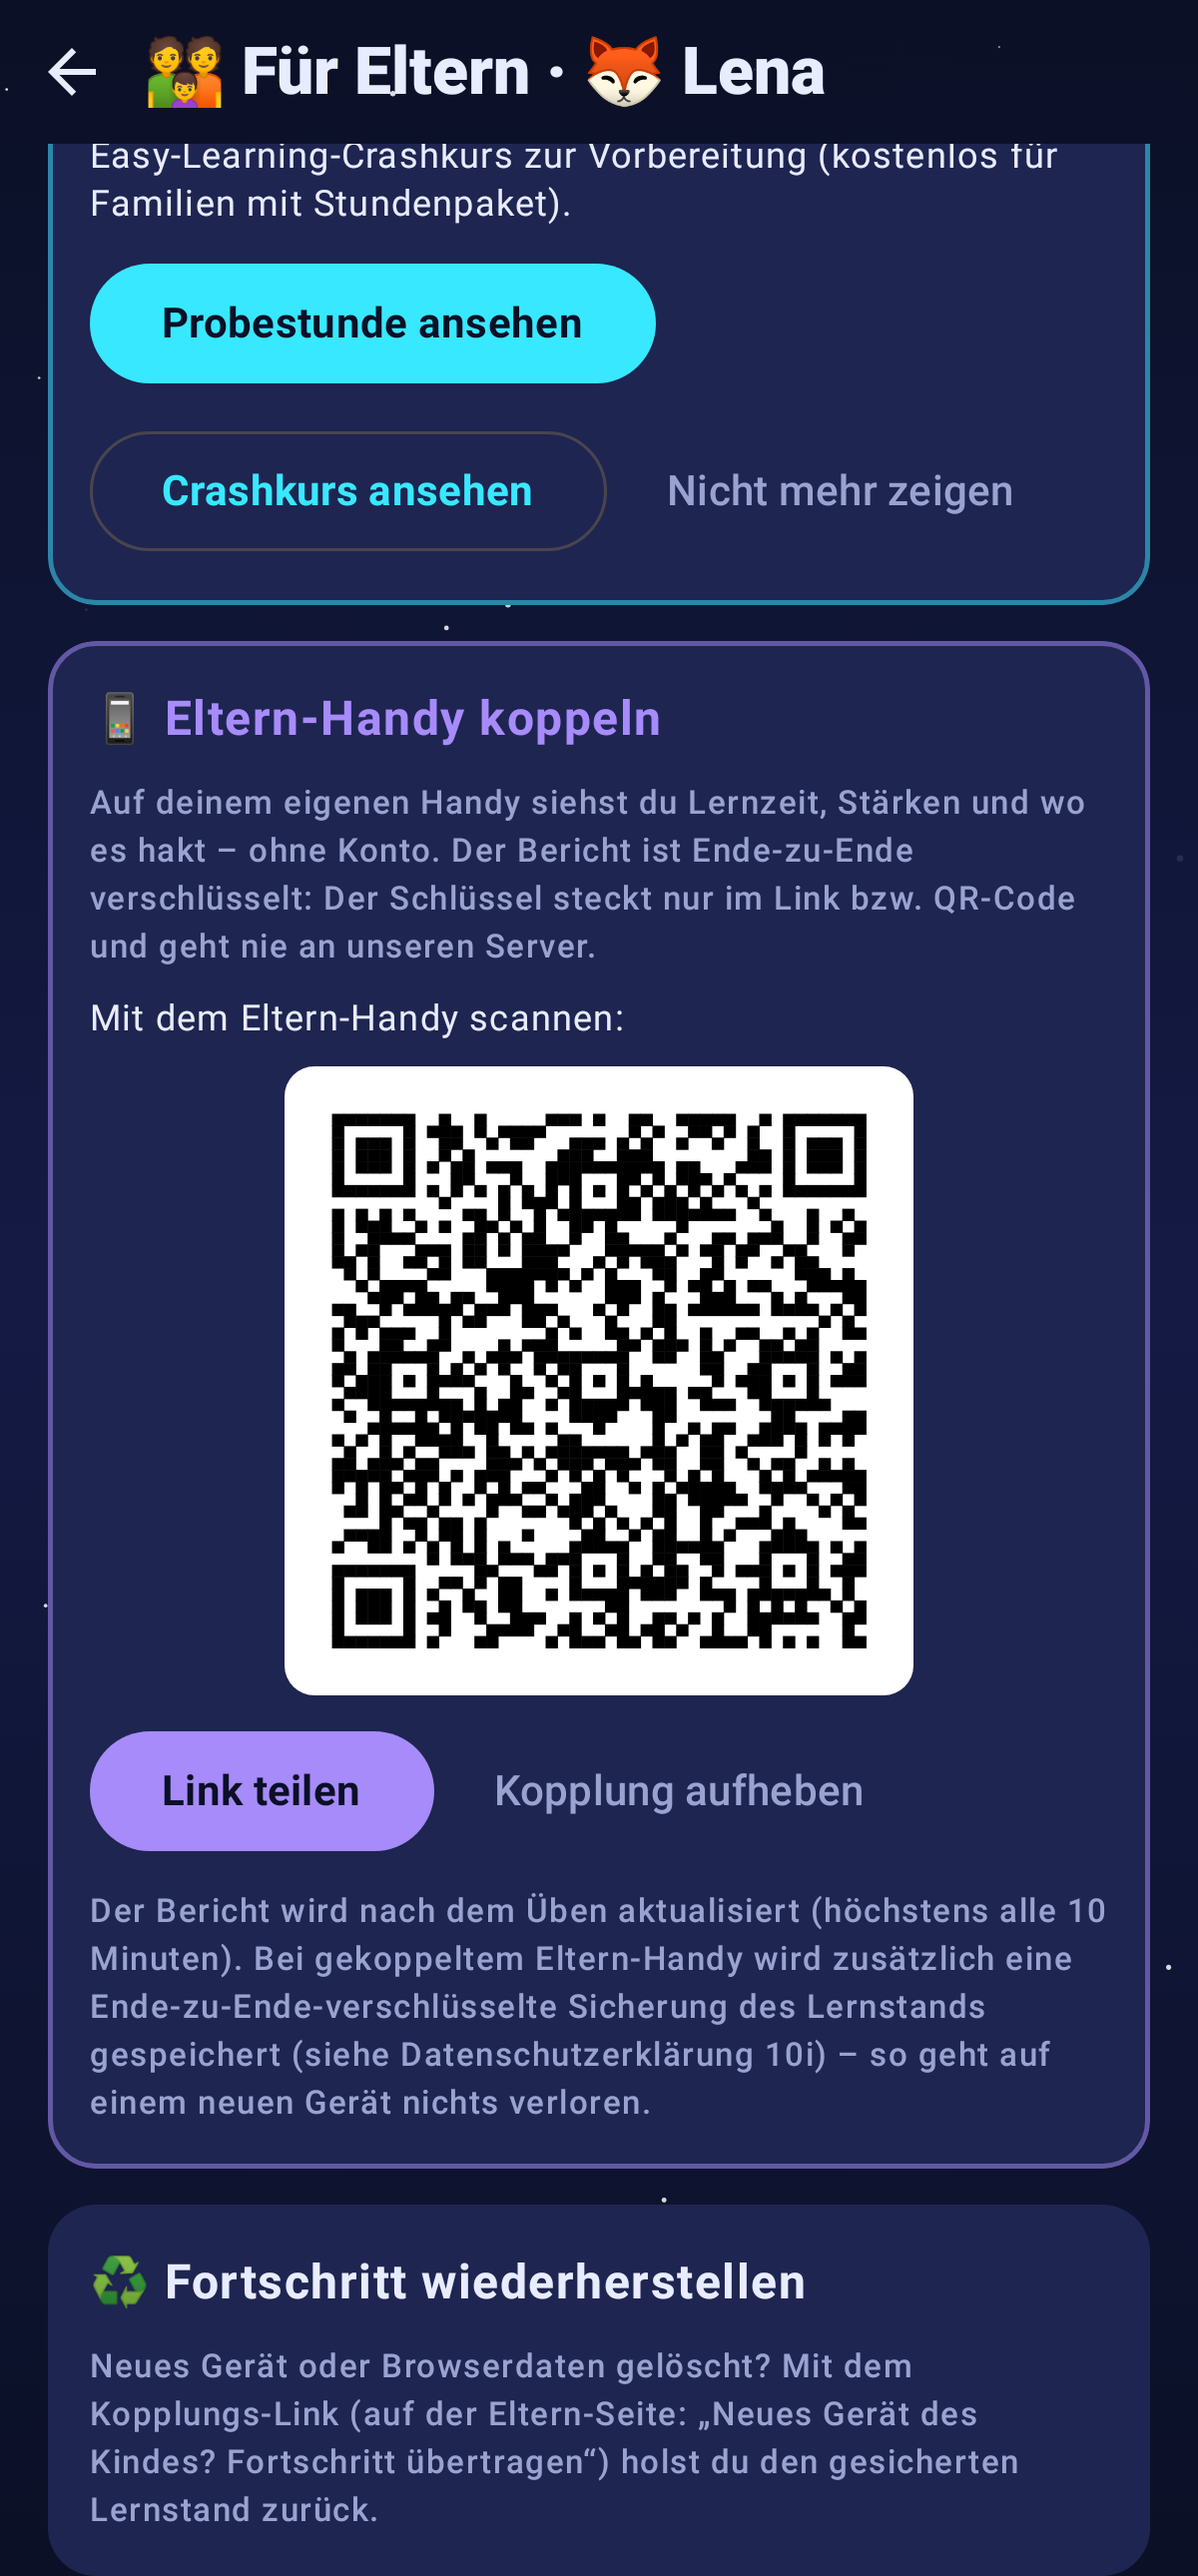
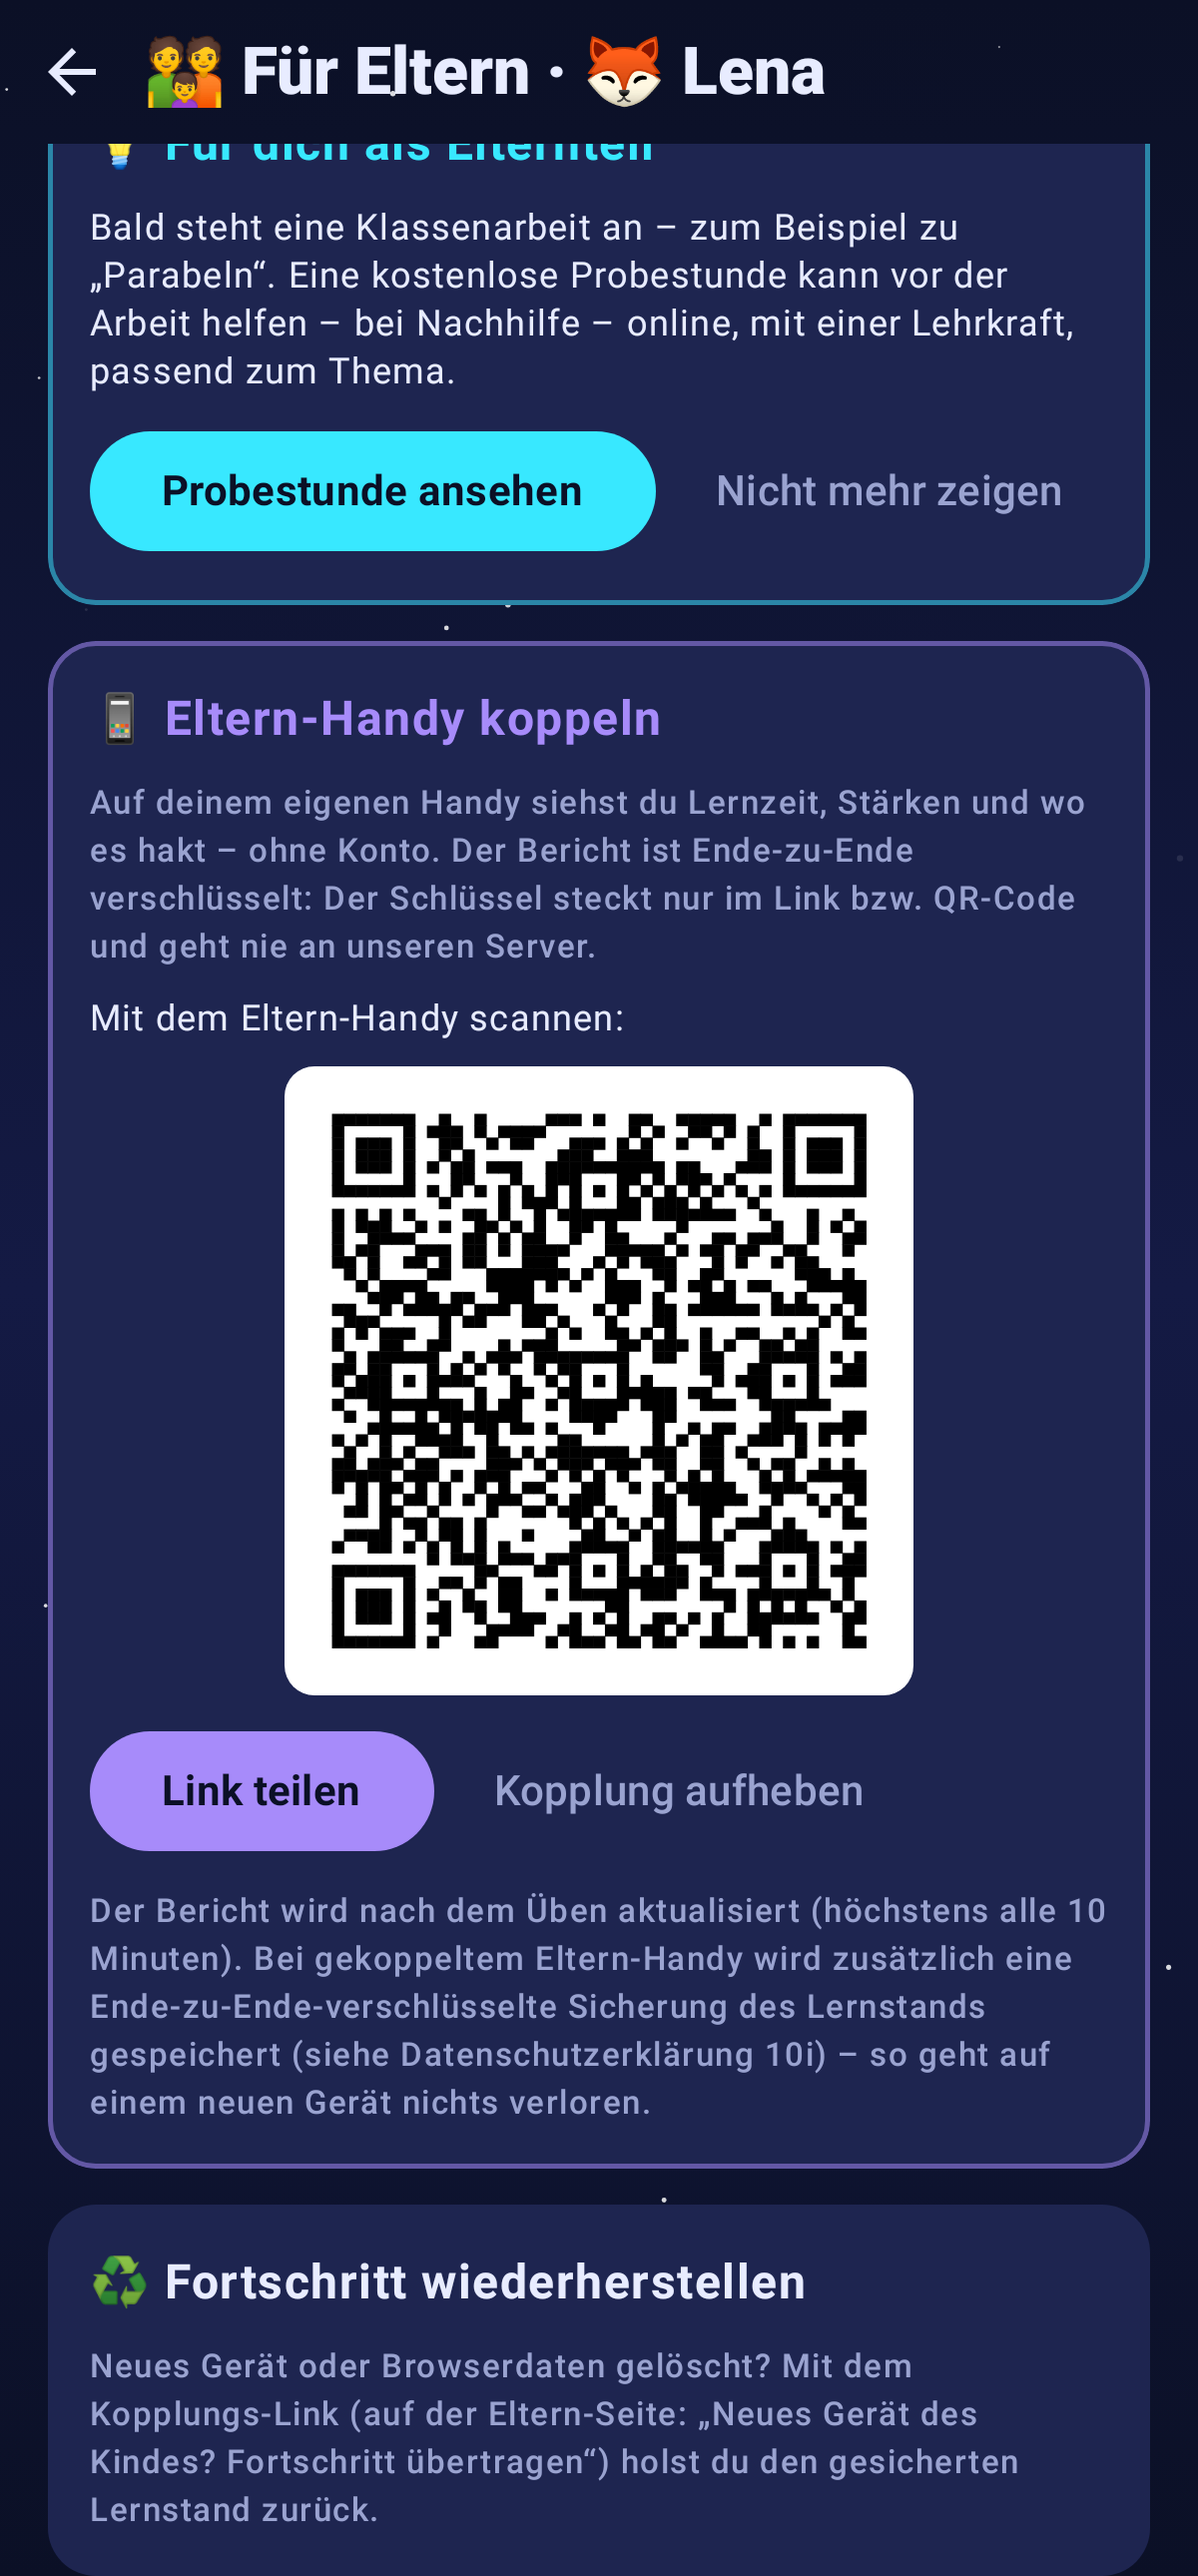
Kurvenflug 2.5.31: vor Klassenarbeiten Probestunde statt Crashkurs
Claude-Session: https://claude.ai/code/session_015vg1TniCB6sLGd2dNSJdge

Changed region(s): [[0.0617, 0.031, 0.8942, 0.2171]]

diff --git a/kurvenflug/shared/src/commonMain/kotlin/de/kurvenflug/app/ui/together/Together.kt b/kurvenflug/shared/src/commonMain/kotlin/de/kurvenflug/app/ui/together/Together.kt
@@ -287,19 +287,13 @@ private fun ParentExtras(p: ParentArea, w: WeekSummary) {
             Text("💡 Für dich als Elternteil", fontWeight = FontWeight.Bold, color = Q.Cyan)
             Text(when (reason) {
                 de.kurvenflug.core.model.ParentOffers.Reason.EXAM -> "Bald steht eine Klassenarbeit an" + (topic?.let { " – zum Beispiel zu „${it.title}“" } ?: "") +
-                    ". Wenn du dir Unterstützung wünschst: Bei Nachhilfe – online gibt es eine kostenlose Probestunde mit einer Lehrkraft, passend zum Thema – " +
-                    "und den Easy-Learning-Crashkurs zur Vorbereitung (kostenlos für Familien mit Stundenpaket)."
+                    ". Eine kostenlose Probestunde kann vor der Arbeit helfen – bei Nachhilfe – online, mit einer Lehrkraft, passend zum Thema."
                 else -> "Bei „${topic?.title}“ hakt es gerade. Das ist normal und meist schnell geklärt. Wenn du dir Unterstützung wünschst: " +
                     "Bei Nachhilfe – online gibt es eine kostenlose Probestunde mit einer Lehrkraft, genau zu diesem Thema."
             }, color = Q.Text, style = MaterialTheme.typography.bodySmall)
             Row(horizontalArrangement = Arrangement.spacedBy(8.dp), verticalAlignment = Alignment.CenterVertically) {
                 Button(onClick = { sfx?.play(Sound.TAP); p.onCount("probestunde_klick"); p.onOpen(de.kurvenflug.core.model.ParentOffers.trialLesson(topic?.number, p.grade, reason)) },
                     colors = ButtonDefaults.buttonColors(containerColor = Q.Cyan, contentColor = Q.Space)) { Text("Probestunde ansehen", fontWeight = FontWeight.Bold) }
-                if (reason != de.kurvenflug.core.model.ParentOffers.Reason.EXAM) TextButton(onClick = { sfx?.play(Sound.TICK); p.onHideHint() }) { Text("Nicht mehr zeigen", color = Q.Muted) }
-            }
-            if (reason == de.kurvenflug.core.model.ParentOffers.Reason.EXAM) Row(horizontalArrangement = Arrangement.spacedBy(8.dp), verticalAlignment = Alignment.CenterVertically) {
-                OutlinedButton(onClick = { sfx?.play(Sound.TAP); p.onCount("crashkurs_klick"); p.onOpen(de.kurvenflug.core.model.ParentOffers.CRASH_COURSE) }) {
-                    Text("Crashkurs ansehen", color = Q.Cyan, fontWeight = FontWeight.Bold) }
                 TextButton(onClick = { sfx?.play(Sound.TICK); p.onHideHint() }) { Text("Nicht mehr zeigen", color = Q.Muted) }
             }
         }

diff --git a/kurvenflug/core/model/src/commonMain/kotlin/de/kurvenflug/core/model/ParentOffers.kt b/kurvenflug/core/model/src/commonMain/kotlin/de/kurvenflug/core/model/ParentOffers.kt
@@ -15,8 +15,7 @@ object ParentOffers {
     /** „Klassenarbeit bald“ gilt so lange, nachdem die Eltern es angetippt haben */
     const val EXAM_DAYS = 21L
 
-    /** Crashkurs vor einer Klassenarbeit (Wortlaut Leitstand: „kostenlos für Familien mit Stundenpaket“) */
-    const val CRASH_COURSE = "$SITE/produkt/easy-learning-crash-kurs/?src=kurvenflug-klassenarbeit"
+    // Kein Crashkurs-Link mehr (Marcel 18.11.: Crashkurs nur für Kunden) – vor Klassenarbeiten die kostenlose Probestunde
 
     /**
      * Gemeinsame Themen-Kennungen (Leitstand 18.11.; andere Werte verwirft das Probestunden-Formular) je Kurvenflug-Kapitel.
@@ -37,7 +36,7 @@ object ParentOffers {
 
     /** Kostenlose Probestunde zum Thema und zur Klasse; [reason] bestimmt die Quelle (elternbericht bzw. klassenarbeit) */
     fun trialLesson(chapter: Int?, grade: Int?, reason: Reason = Reason.STUCK): String =
-        "$SITE/probestunde/?src=kurvenflug-" + (if (reason == Reason.EXAM) "klassenarbeit" else "elternbericht") +
+        (if (reason == Reason.EXAM) "$SITE/probestunde-anfrage/?src=kurvenflug-klassenarbeit" else "$SITE/probestunde/?src=kurvenflug-elternbericht") +
             (chapter?.let { TOPICS[it] }?.let { "&thema=$it" } ?: "") + (grade?.let { "&klasse=$it" } ?: "")
 
     /** Warum der Hinweis kommt */
@@ -63,7 +62,7 @@ object UsageCount {
     const val URL = "https://trainer.mathenachhilfe-online.com/zaehler/v1/e"
     /** Erlaubte Ereignisse – nichts anderes wird je gezählt */
     val EVENTS = setOf("start", "level_start", "level_geschafft", "theorie", "elternbereich", "pro_ansehen", "pro_kasse", "code_eingeloest",
-        "probestunde_klick", "neukunde_klick", "crashkurs_klick", "nachhilfe_hinweis", "geschenk_klick")
+        "probestunde_klick", "neukunde_klick", "nachhilfe_hinweis", "geschenk_klick")
     /** Der Zähler nimmt je Ereignis höchstens so viele an */
     const val MAX_PER_EVENT = 50
 

diff --git a/kurvenflug/core/model/src/commonTest/kotlin/de/kurvenflug/core/model/ParentOffersTest.kt b/kurvenflug/core/model/src/commonTest/kotlin/de/kurvenflug/core/model/ParentOffersTest.kt
@@ -20,9 +20,9 @@ class ParentOffersTest {
 
     @Test fun linksCarrySourceAndNoPrice() {
         assertEquals("https://www.mathenachhilfe-online.com/probestunde/?src=kurvenflug-elternbericht&thema=pythagoras&klasse=9", ParentOffers.trialLesson(9, 9))
-        assertEquals("https://www.mathenachhilfe-online.com/probestunde/?src=kurvenflug-klassenarbeit&thema=quadratische-funktionen",
-            ParentOffers.trialLesson(3, null, ParentOffers.Reason.EXAM))
-        assertTrue("src=kurvenflug-klassenarbeit" in ParentOffers.CRASH_COURSE)
+        assertEquals("https://www.mathenachhilfe-online.com/probestunde-anfrage/?src=kurvenflug-klassenarbeit&thema=quadratische-funktionen&klasse=9",
+            ParentOffers.trialLesson(3, 9, ParentOffers.Reason.EXAM))
+        assertTrue("crashkurs_klick" !in UsageCount.EVENTS)
         assertTrue("src=kurvenflug-geschenk" in ParentOffers.GIFT && "src=kurvenflug-fusszeile" in ParentOffers.FOOTER)
         listOf(ParentOffers.GIFT, ParentOffers.FOOTER, ParentOffers.FOOTER_TEXT).forEach { assertTrue('€' !in it) }
     }

diff --git a/kurvenflug/MELDUNG_AN_LEITSTAND.md b/kurvenflug/MELDUNG_AN_LEITSTAND.md
@@ -1,5 +1,14 @@
 # Meldungen an den Leitstand – Kurvenflug WebApp
 
+## ✅ 2.5.31 – C1 geändert: vor Klassenarbeiten Probestunde statt Crashkurs (Marcel 18.11.)
+- Crashkurs-Knopf und -Link entfernt (auch aus dem Code), `crashkurs_klick` aus der Ereignisliste genommen.
+- „Klassenarbeit bald“: Text „… Eine kostenlose Probestunde kann vor der Arbeit helfen – bei Nachhilfe – online, mit einer Lehrkraft, passend zum Thema.“,
+  Knopf „Probestunde ansehen“ → `https://www.mathenachhilfe-online.com/probestunde-anfrage/?src=kurvenflug-klassenarbeit&thema=<id>&klasse=<n>`
+  (Test in `ParentOffersTest`). „Thema hakt“ bleibt `…/probestunde/?src=kurvenflug-elternbericht&…`.
+- Zählung: `probestunde_klick` wie bisher. **ort=klassenarbeit sende ich nicht:** unsere Sammelsendung trägt mehrere Ereignisse, ein einzelnes `ort` je
+  Sendung wäre für die anderen falsch. Wenn ihr es braucht: Format für ort je Ereignis nennen, dann baue ich es ein.
+- Bildschirmfoto 104 angesehen. versionCode 78 / 2.5.31, Prüfkette grün, keine neuen Dateiendungen.
+
 ## ✅ 2.5.30 – Klassen-Dialog am PC als mittige Karte
 - „In welcher Klasse bist du?“: Karte höchstens 640 dp breit, mittig (Browser 1440×900 angesehen; Knöpfe ~180 px statt ~450 px). Handy unverändert.
 - versionCode 77 / 2.5.30, Prüfkette grün, keine neuen Dateiendungen.

diff --git a/kurvenflug/CHANGELOG.md b/kurvenflug/CHANGELOG.md
@@ -3,6 +3,9 @@
 Kurz und verständlich für Schüler und Eltern. Der Abschnitt der aktuellen Version erscheint automatisch
 im GitHub-Release und in der App unter „App-Update“.
 
+## 2.5.31 – Vor Klassenarbeiten: Probestunde
+- Steht eine Klassenarbeit an, empfiehlt der Elternbereich jetzt eine kostenlose Probestunde passend zum Thema.
+
 ## 2.5.30 – Klassen-Auswahl am PC
 - Die Frage „In welcher Klasse bist du?“ erscheint am PC als handliche Karte in der Mitte statt über die ganze Breite.
 
